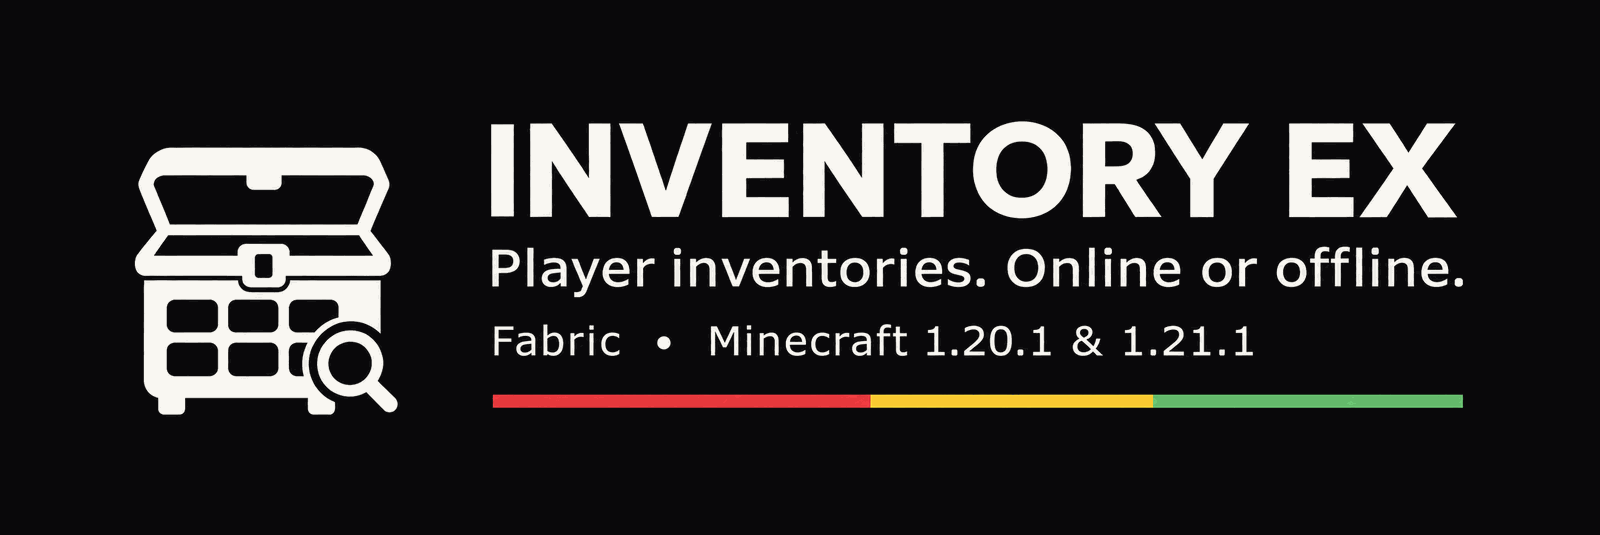
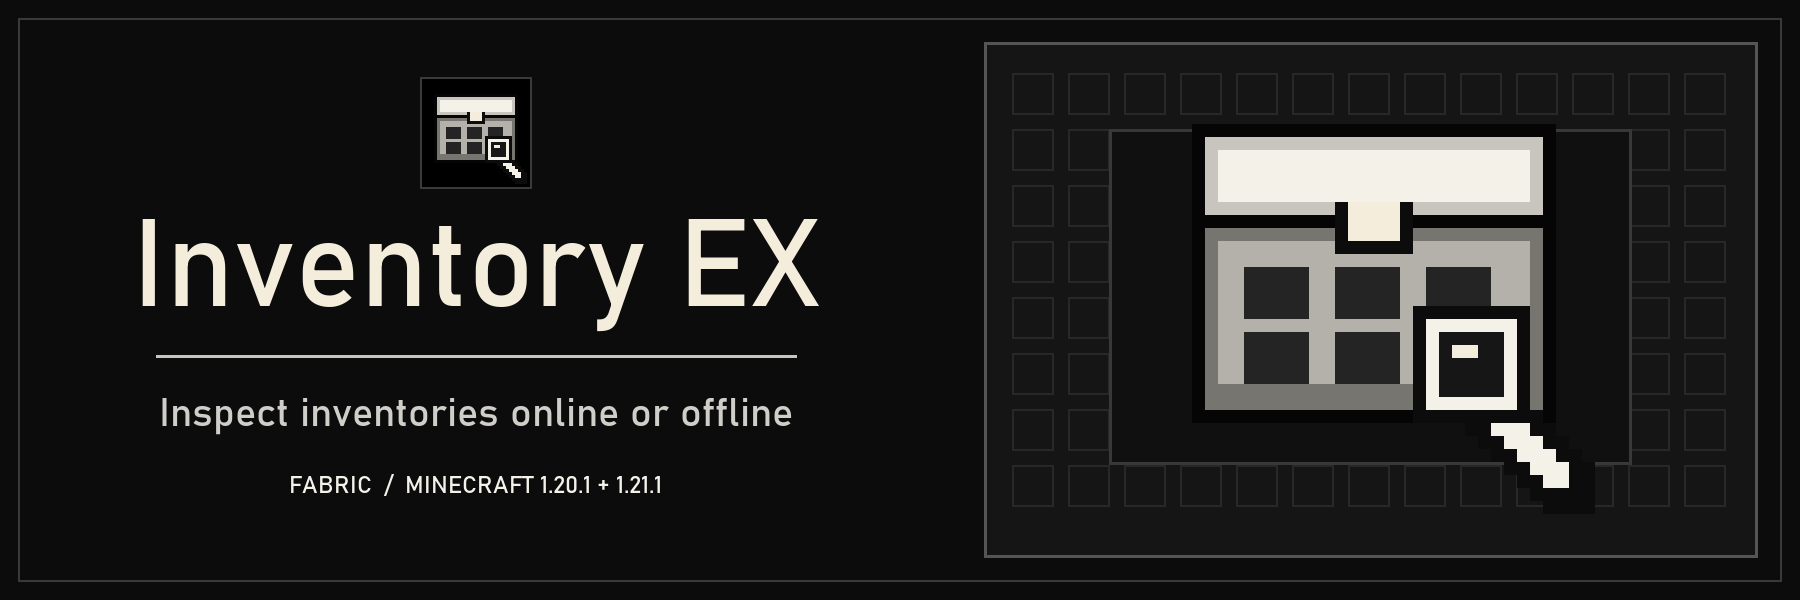
Refresh Inventory EX with monochrome pixel artwork

diff --git a/docs/CURSEFORGE.md b/docs/CURSEFORGE.md
@@ -1,5 +1,5 @@
 <p align="center" style="text-align: center;">
-<img src="https://raw.githubusercontent.com/BareMinimumStudios/invex/main/docs/assets/inventory-ex-banner.png" alt="Inventory EX banner" width="1080">
+<img src="https://raw.githubusercontent.com/BareMinimumStudios/invex/main/docs/assets/inventory-ex-banner.png" alt="Inventory EX pixel-art banner" width="1080">
 </p>
 
 <p align="center" style="text-align: center;">

diff --git a/docs/MODRINTH.md b/docs/MODRINTH.md
@@ -1,5 +1,5 @@
 <p align="center" style="text-align: center;">
-<img src="https://raw.githubusercontent.com/BareMinimumStudios/invex/main/docs/assets/inventory-ex-banner.png" alt="Inventory EX banner" width="1080">
+<img src="https://raw.githubusercontent.com/BareMinimumStudios/invex/main/docs/assets/inventory-ex-banner.png" alt="Inventory EX pixel-art banner" width="1080">
 </p>
 
 <p align="center" style="text-align: center;">

diff --git a/README.md b/README.md
@@ -1,5 +1,5 @@
 <p align="center">
-  <img src="docs/assets/inventory-ex-banner.png" alt="Inventory EX" />
+  <img src="docs/assets/inventory-ex-banner.png" alt="Inventory EX pixel-art banner" width="1080" />
 </p>
 
 <p align="center">
